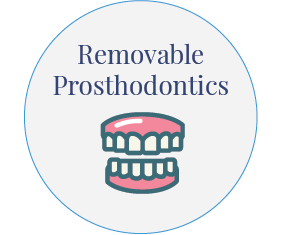
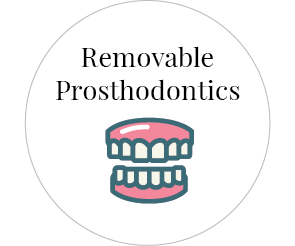
Bp 4 build title (#19)
* Added design for the homepage.

* Added new design for the website.

* Added title component.

* Updated the font in the Nav and Contact. Changed spacing in the Summary.

* Changed featured services photo size.

* Changed summary font color

* Changed the colors.

* Addressed minhs requests

diff --git a/src/components/Summary/Summary.module.scss b/src/components/Summary/Summary.module.scss
@@ -4,7 +4,7 @@
     display: flex;
     justify-content: center;
     min-height: 620px;
-    background-color: $quaternary-background-color;
+    background-color: $white-background-color;
 }
 
 .Welcome_Text {
@@ -15,7 +15,7 @@
 
 .Title_Text {
     font-size: $secondary-font-size;
-    color: $secondary-text;
+    color: $teriary-text;
     text-align: center;
     text-transform: uppercase;
     text-align: left;
@@ -35,13 +35,13 @@
 .Break {
     margin-top: 2px;
     margin-bottom: 10px;
-    color: $secondary-text;
+    color: $primary-text;
 }
 
 .Paragraph {
     font-size: $primary-font-size;
     font-family: OpenSans-Regular;
-    color: $secondary-text;
+    color: $primary-text;
 }
 
 .Bergin_Image {
@@ -67,10 +67,10 @@
 
 .Button {
     margin-top: 16px !important;
-    background-color: $quaternary-background-color;
+    background-color: $darkgray-background-color;
     color: $secondary-text;
     font-family: PlayfairDisplay-Bold4 !important; 
     font-size: 20px !important;
-    border: 1px solid #304774 !important;
+    border: 1px solid black !important;
     
 }

diff --git a/src/global.scss b/src/global.scss
@@ -1,12 +1,13 @@
 // Background colors
-$primary-background-color: #1A2440 !important; // #304774
-$secondary-background-color: #E4EAF1 !important;
-$teriary-background-color:  #73305B !important; //#B4B8C5
-$quaternary-background-color: #F1F2F2 !important;
+$gray-background-color: #EEE !important; 
+$lightblue-background-color: #f2f5f7!important;
+$darkgray-background-color:  #3B4040!important; 
+$white-background-color: white !important;
 
 // Texts
-$primary-text: white !important;
-$secondary-text: #304774 !important;
+$primary-text: #3B4040 !important; //#3B4040 
+$secondary-text: white !important;
+$teriary-text: black !important;
 
 // Font size
 $primary-font-size: 23px !important;
@@ -51,5 +52,6 @@ body {
     font-family: 'Raleway-Regular';
     src: local('Raleway-Regular'), url(./assets/fonts/Raleway-Regular.ttf) format('truetype');
   }
+
   
   

diff --git a/src/components/Navigation/Navigation.module.scss b/src/components/Navigation/Navigation.module.scss
@@ -1,7 +1,8 @@
 @import 'global.scss';
 
 .AppBar {
-    background-color: $primary-background-color;
+    background-color: $gray-background-color;
+    box-shadow: none !important;
 }
 
 .Toolbar {
@@ -15,12 +16,14 @@
 .Phone_Icon {
     margin-right: 5px;
     margin-top: 8px;
+    color: $primary-text;
 }
 
 .Phone_Number {
     font-family: Raleway-Bold !important;
     margin-right: 10px;
     margin-top: 7px;
+    color: $primary-text;
 }
 
 .Tab_Dropdown {
@@ -29,6 +32,6 @@
 
 .Button {
     font-family: Raleway-Bold !important;
-    background-color: $teriary-background-color;
-    color: $primary-text;
+    background-color: $darkgray-background-color;
+    color: $secondary-text;
 }

diff --git a/src/components/FeaturedServices/FeaturedServices.module.scss b/src/components/FeaturedServices/FeaturedServices.module.scss
@@ -3,23 +3,23 @@
 .FeaturedServices {
     display: flex;
     justify-content: center;
-    background-color: $secondary-background-color;
-    min-height: 420px;
+    background-color: $lightblue-background-color;
+    min-height: 450px;
     align-items: center;
     flex-direction: column;
-    box-shadow : 2px 0px 5px rgba(35, 31, 32, 0.62);
+    
 }
 
 .Text {
-    font-size: $primary-font-size;
-    color: $secondary-text;
+    font-size: 27px;
+    color: $teriary-text;
     text-align: center;
 }
 
 .Break{
     margin-top: 2px;
     margin-bottom: 2px;
-    color: $secondary-text;
+    color: $primary-text;
 }
 
 .Header {

diff --git a/src/components/ContactInfo/ContactInfo.module.scss b/src/components/ContactInfo/ContactInfo.module.scss
@@ -2,12 +2,11 @@
 
 .Contact_Info {
     display: flex;
-    background-color: $primary-background-color;
+    background-color: $gray-background-color;
     justify-content: center;
     min-height: 300px;
     color: $primary-text;
     font-family: Raleway-Regular;
-    
 }
 
     .ContactInfo p {
@@ -43,7 +42,7 @@
     letter-spacing: 0.02857em;
     color: $primary-text;;
     text-transform: uppercase;
-    background-color: $primary-background-color;
+    background-color: $gray-background-color;
     text-align: center;
     font-family: Raleway-Regular;
 }

diff --git a/src/App.js b/src/App.js
@@ -12,7 +12,6 @@ export default function App() {
       <Navigation></Navigation>
       <Title></Title>
       <Summary></Summary>
-      <BeforeAndAfter></BeforeAndAfter>
       <FeaturedServices></FeaturedServices>
       <ContactInfo></ContactInfo>
     </>

diff --git a/src/components/BeforeAndAfter/BeforeAndAfter.module.scss b/src/components/BeforeAndAfter/BeforeAndAfter.module.scss
@@ -3,7 +3,7 @@
 .BeforeAndAfter {
     display: flex;
     justify-content: center;
-    background-color: $teriary-background-color;
+    background-color: $darkgray-background-color;
     min-height: 160px;
     color: $primary-text;
 }

diff --git a/src/components/Title/Title.module.scss b/src/components/Title/Title.module.scss
@@ -10,6 +10,6 @@
     font-size: $secondary-font-size;
     font-family: PlayfairDisplay-Bold;
     color: $secondary-text;
-    min-height: 700px; 
+    min-height: 650px; 
     justify-content: center;
 }

diff --git a/src/components/Title/Title.js b/src/components/Title/Title.js
@@ -5,7 +5,6 @@ import Cepha from 'assets/title/cepha.jpg';
 const Title = () => {
     return (
         <div className={cn.Title}>
-            <p>Bergin Prosthodontics</p>
         </div>
     )
 }

diff --git a/src/components/Navigation/TabDropdown/TabDropdown.module.scss b/src/components/Navigation/TabDropdown/TabDropdown.module.scss
@@ -5,7 +5,7 @@
 }
 
 .AppBar {
-    background-color: $primary-background-color;
+    background-color: $gray-background-color;
 }
 
 .Tab {
